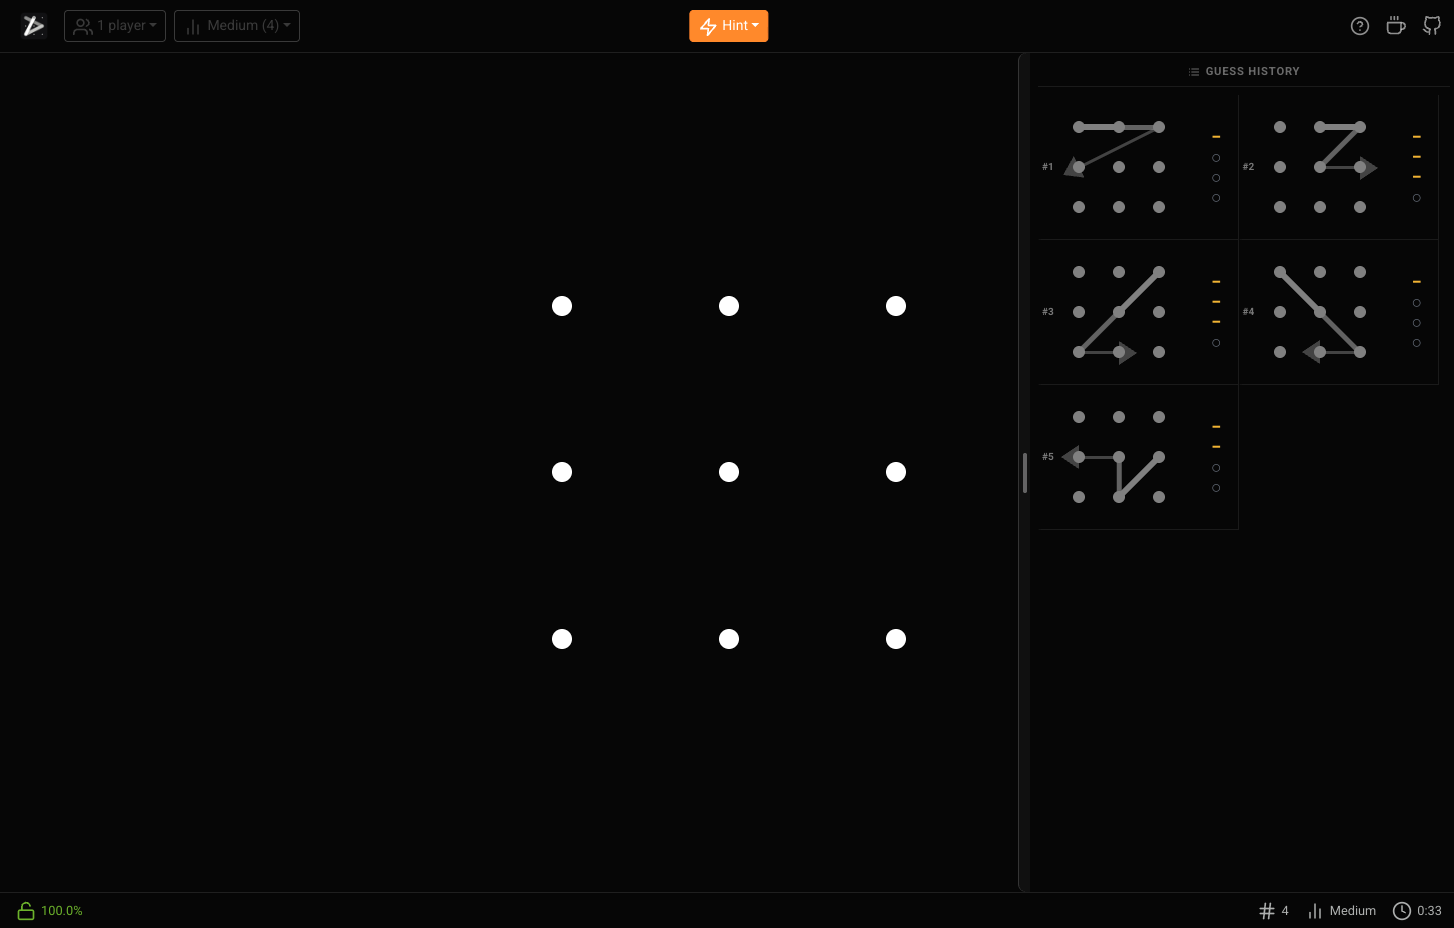
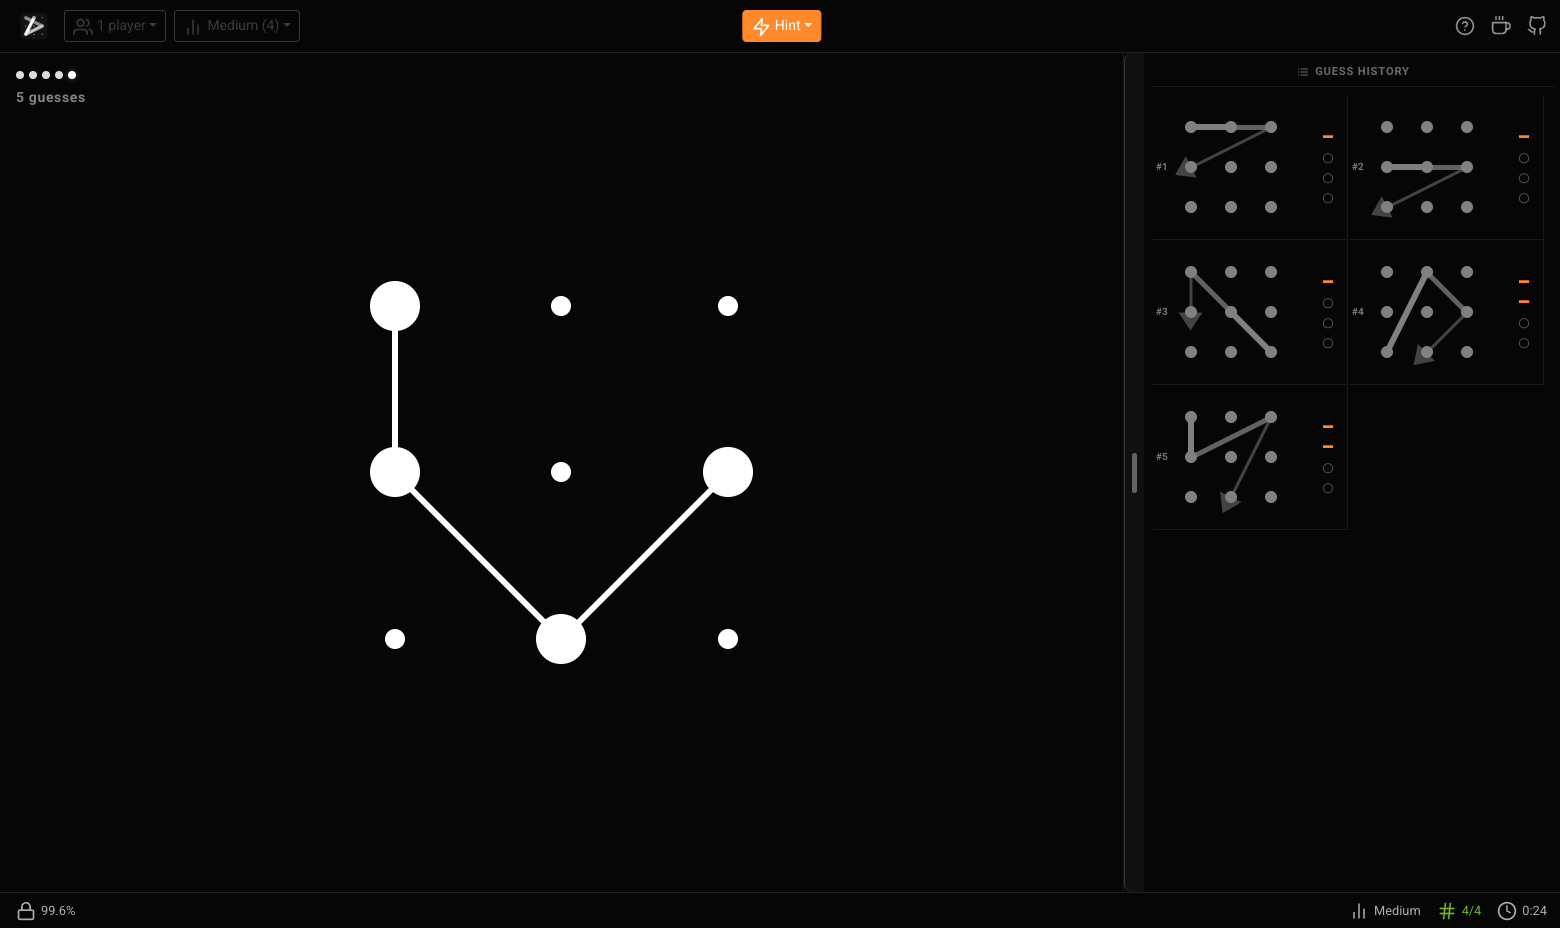
feat: add mobile-focused pattern lock feedback with latest dot and connector pulse/halo animations

diff --git a/src/components/PatternLock.css b/src/components/PatternLock.css
@@ -41,6 +41,10 @@
     transform-origin: center left;
 }
 
+.react-pattern-lock__connector.latest {
+    box-shadow: 0 0 0.45rem rgba(255, 255, 255, 0.45);
+}
+
 .react-pattern-lock__point-wrapper {
     display: flex;
     justify-content: center;
@@ -57,6 +61,18 @@
     position: relative;
 }
 
+.react-pattern-lock__point::after {
+    content: "";
+    position: absolute;
+    inset: 50%;
+    border: 2px solid transparent;
+    border-radius: 50%;
+    opacity: 0;
+    pointer-events: none;
+    transform: translate(-50%, -50%) scale(0.8);
+    transition: opacity 160ms ease, transform 160ms ease, border-color 160ms ease;
+}
+
 .react-pattern-lock__point-inner {
     background: white;
     border-radius: 50%;
@@ -66,6 +82,17 @@
 
 .react-pattern-lock__point-inner.active {
     animation: pop 300ms ease;
+}
+
+.react-pattern-lock__point-wrapper.selected .react-pattern-lock__point::after {
+    border-color: rgba(255, 255, 255, 0.5);
+    opacity: 1;
+    transform: translate(-50%, -50%) scale(1.2);
+}
+
+.react-pattern-lock__point-wrapper.latest .react-pattern-lock__point::after {
+    border-color: rgba(255, 255, 255, 0.85);
+    box-shadow: 0 0 0.9rem rgba(255, 255, 255, 0.55);
 }
 
 .react-pattern-lock__pattern-wrapper.disabled,
@@ -106,6 +133,44 @@
     }
     to {
         transform: scale(1);
+    }
+}
+
+@keyframes mobilePop {
+    0% {
+        transform: scale(1);
+    }
+    45% {
+        transform: scale(2.7);
+    }
+    100% {
+        transform: scale(1.15);
+    }
+}
+
+@keyframes mobilePulseRing {
+    0% {
+        opacity: 0.95;
+        transform: translate(-50%, -50%) scale(1.05);
+    }
+    100% {
+        opacity: 0.35;
+        transform: translate(-50%, -50%) scale(1.6);
+    }
+}
+
+@keyframes mobileConnectorPulse {
+    0% {
+        filter: brightness(1);
+        transform: scaleY(1);
+    }
+    50% {
+        filter: brightness(1.35);
+        transform: scaleY(1.45);
+    }
+    100% {
+        filter: brightness(1.05);
+        transform: scaleY(1.15);
     }
 }
 
@@ -160,4 +225,25 @@
 
 .react-pattern-lock__point-eliminated::after {
     transform: translate(-50%, -50%) rotate(-45deg);
+}
+
+@media (max-width: 768px), (pointer: coarse) {
+    .react-pattern-lock__point-inner.active {
+        animation: mobilePop 240ms ease-out forwards;
+    }
+
+    .react-pattern-lock__point-wrapper.selected .react-pattern-lock__point::after {
+        border-width: 3px;
+        opacity: 0.9;
+        transform: translate(-50%, -50%) scale(1.4);
+    }
+
+    .react-pattern-lock__point-wrapper.latest .react-pattern-lock__point::after {
+        animation: mobilePulseRing 220ms ease-out;
+    }
+
+    .react-pattern-lock__connector.latest {
+        box-shadow: 0 0 0.8rem rgba(255, 255, 255, 0.8);
+        animation: mobileConnectorPulse 180ms ease-out;
+    }
 }

diff --git a/src/components/patternLockFeedback.test.ts b/src/components/patternLockFeedback.test.ts
@@ -1,0 +1,27 @@
+import { getConnectorClassName, getPointWrapperClassName } from "./patternLockFeedback.ts";
+
+describe("patternLockFeedback", () => {
+    describe("getPointWrapperClassName", () => {
+        it("Should include selected and latest modifiers when both states are true", () => {
+            expect(getPointWrapperClassName({ selected: true, latest: true })).toBe("react-pattern-lock__point-wrapper selected latest");
+        });
+
+        it("Should include only selected when the point is not the latest", () => {
+            expect(getPointWrapperClassName({ selected: true, latest: false })).toBe("react-pattern-lock__point-wrapper selected");
+        });
+
+        it("Should return the base class when the point is neither selected nor latest", () => {
+            expect(getPointWrapperClassName({ selected: false, latest: false })).toBe("react-pattern-lock__point-wrapper");
+        });
+    });
+
+    describe("getConnectorClassName", () => {
+        it("Should mark the newest connector", () => {
+            expect(getConnectorClassName(true)).toBe("react-pattern-lock__connector latest");
+        });
+
+        it("Should leave older connectors unmodified", () => {
+            expect(getConnectorClassName(false)).toBe("react-pattern-lock__connector");
+        });
+    });
+});

diff --git a/src/components/Point.tsx b/src/components/Point.tsx
@@ -1,4 +1,5 @@
 import * as React from "react";
+import { getPointWrapperClassName } from "./patternLockFeedback.ts";
 
 interface PointProps {
     index           : number;
@@ -9,6 +10,7 @@ interface PointProps {
     pop             : boolean;
     complete        : boolean;
     selected        : boolean;
+    latest          : boolean;
     highlighted     : boolean;
     pathColor      ?: string;
 }
@@ -20,6 +22,7 @@ const Point: React.FunctionComponent<PointProps> = ({
     cols,
     rows,
     selected,
+    latest,
     pop,
     complete,
     highlighted,
@@ -36,7 +39,7 @@ const Point: React.FunctionComponent<PointProps> = ({
 
     return (
         <div
-            className={ `react-pattern-lock__point-wrapper${selected ? " selected" : ""}` }
+            className={getPointWrapperClassName({ selected, latest })}
             style={{
                 width  : `${colPercent}%`,
                 height : `${rowPercent}%`,

diff --git a/src/components/Connectors.tsx b/src/components/Connectors.tsx
@@ -2,6 +2,7 @@ import * as React from "react";
 
 import { getAngle, getDistance, getConnectorPoint, getDynamicConnectorThickness, getConnectorOpacity } from "../math/math.ts";
 import { Point } from "../math/point.ts";
+import { getConnectorClassName } from "./patternLockFeedback.ts";
 
 type Connector = {
     from      : Point;
@@ -93,7 +94,7 @@ const Connectors: React.FunctionComponent<ConnectorsProps> = ({
             {
                 connectors.map(({ from, to, thickness, opacity }, i) => (
                     <div
-                        className="react-pattern-lock__connector"
+                        className={getConnectorClassName(i === connectors.length - 1)}
                         key={ i }
                         style={{
                             transform    : `rotate(${getAngle(from, to)}rad)`,

diff --git a/src/components/PatternLock.tsx b/src/components/PatternLock.tsx
@@ -96,6 +96,7 @@ const PatternLock: React.FunctionComponent<PatternLockProps> = ({
                             complete={completionFlash && path.indexOf(i) > -1 && path.indexOf(i) < (targetLength ?? Infinity)}
                             pop={!noPop && ((isMouseDown && path[path.length - 1] === i) || flashingPoints.has(i))}
                             selected={path.indexOf(i) > -1}
+                            latest={path[path.length - 1] === i}
                             highlighted={highlightedPoints.includes(i)}
                             pathColor={pathColor}
                         />

diff --git a/src/components/patternLockFeedback.ts b/src/components/patternLockFeedback.ts
@@ -1,0 +1,15 @@
+export const getPointWrapperClassName = ({
+    selected,
+    latest,
+}: {
+    selected: boolean;
+    latest: boolean;
+}): string =>
+    [
+        "react-pattern-lock__point-wrapper",
+        selected ? "selected" : "",
+        latest ? "latest" : "",
+    ].filter(Boolean).join(" ");
+
+export const getConnectorClassName = (isLatest: boolean): string =>
+    ["react-pattern-lock__connector", isLatest ? "latest" : ""].filter(Boolean).join(" ");

diff --git a/memento.md b/memento.md
@@ -2,6 +2,20 @@
 
 ## Architectural Decisions
 
+### Mobile PatternLock Selection Feedback
+
+**Decision:** Added mobile-biased visual feedback for selection confirmation in `PatternLock`: a stronger selected-dot pop, a persistent halo around selected dots, a brighter halo for the newest dot, and a pulse/glow on the newest connector.
+
+**Rationale:** On phones, the finger can cover the center of the dot at the exact moment it is selected. Reinforcing feedback only at the dot center was not enough. The new treatment pushes confirmation outward with a ring and along the newest line segment, making it visible even when the finger blocks the dot itself. The stronger motion is scoped to `@media (max-width: 768px), (pointer: coarse)` so desktop keeps the calmer look.
+
+**Files:**
+- `src/components/PatternLock.css` — mobile-only animations and selected/latest halo styles
+- `src/components/PatternLock.tsx` — passes `latest` state to points
+- `src/components/Point.tsx` — applies wrapper classes for selected/latest point state
+- `src/components/Connectors.tsx` — marks the newest connector for pulse styling
+- `src/components/patternLockFeedback.ts` — small helper for class-name generation
+- `src/components/patternLockFeedback.test.ts` — tests for selected/latest class mapping
+
 ### GuessCounter — Current Attempt Indicator
 
 **Decision:** Added a `GuessCounter` component absolutely positioned in the top-left of `MainArea` (required adding `position: relative` to `MainArea` in `App.styled.tsx`).

diff --git a/README.md b/README.md
@@ -32,6 +32,7 @@ The game ends when Bulls == code length.
 * **Reliable stats persistence** — single-player wins are saved immediately on solve, and started games that are abandoned are counted as losses
 * **Player count** — Select 1–4 players (future multiplayer support)
 * **Help modal** — In-app game rules with a "Play Now" button
+* **Touch-friendly lock feedback** — on phones and other coarse pointers, the newest dot and line segment get a stronger pulse/halo so selections stay readable under your finger
 * **Responsive** — Works on desktop and mobile, navbar wraps to two rows on small screens
 
 ## Game Rules
